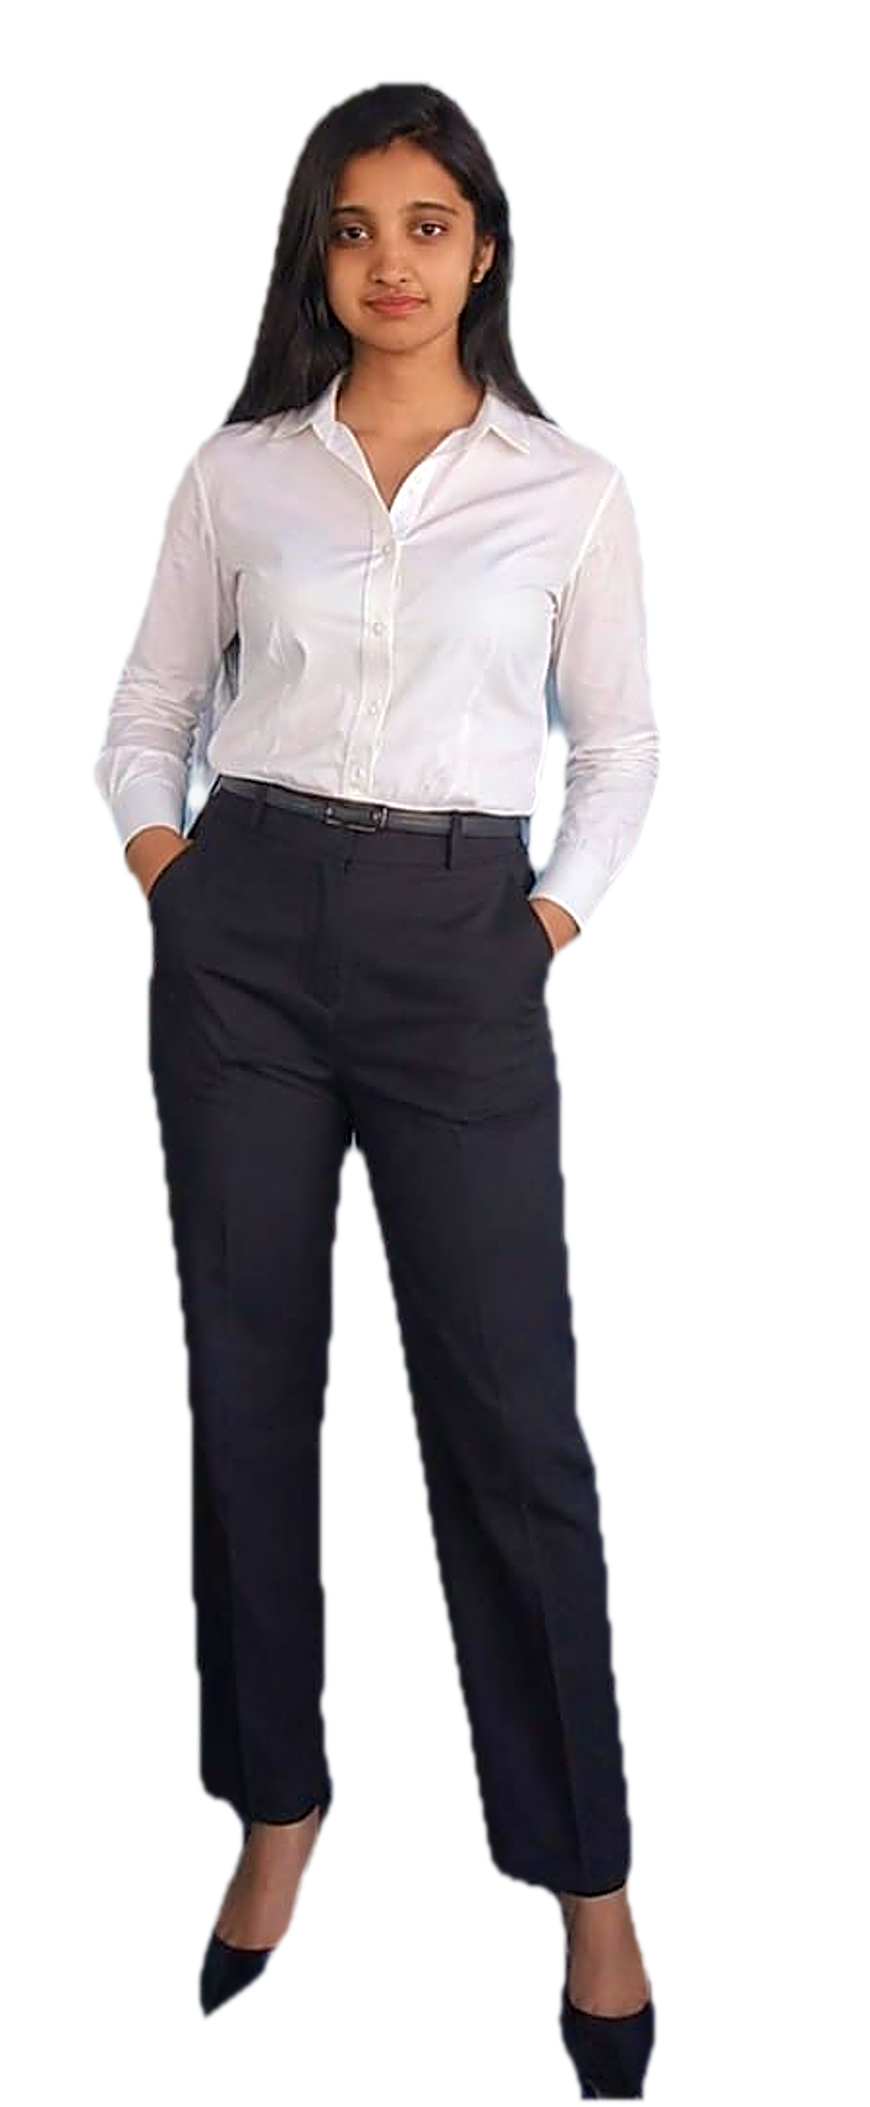
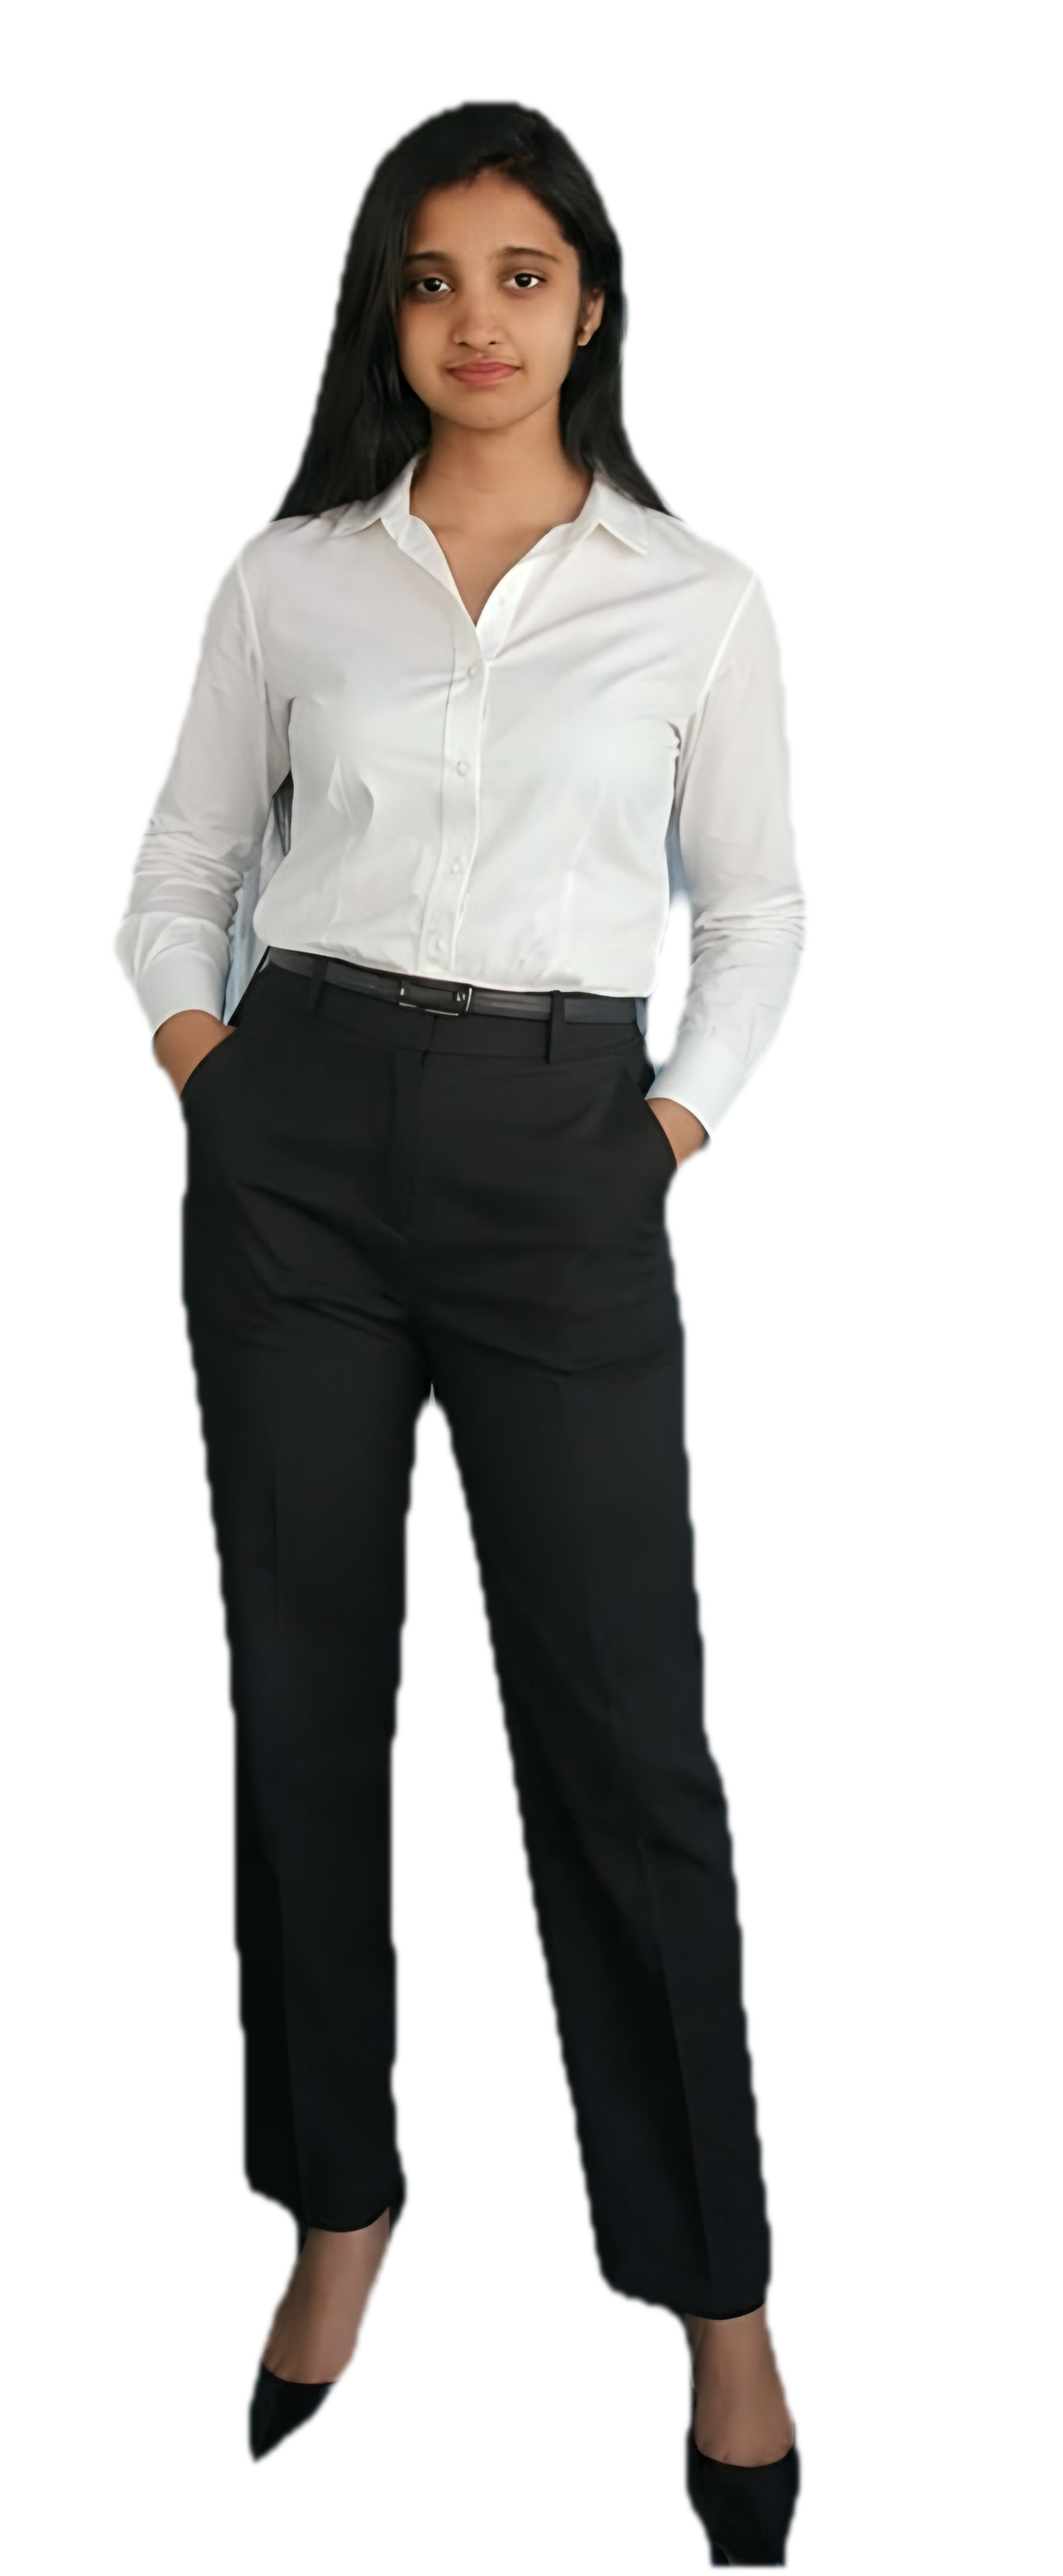
Use AI-upscaled full-length hero photo (Real-ESRGAN x4)

diff --git a/index.html b/index.html
@@ -311,7 +311,7 @@
     <div class="wrap hero-grid">
       <div class="portrait reveal">
         <div class="portrait-glow"></div>
-        <img class="portrait-img" src="images/varshini-hero.png" alt="Varshini K S" width="900" height="2180" />
+        <img class="portrait-img" src="images/varshini-hero.png?v=2" alt="Varshini K S" width="1100" height="2664" />
         <div class="portrait-floor"></div>
         <div class="portrait-badge"><span class="dot"></span><span><b>MERN</b> Full-Stack Developer</span></div>
       </div>
